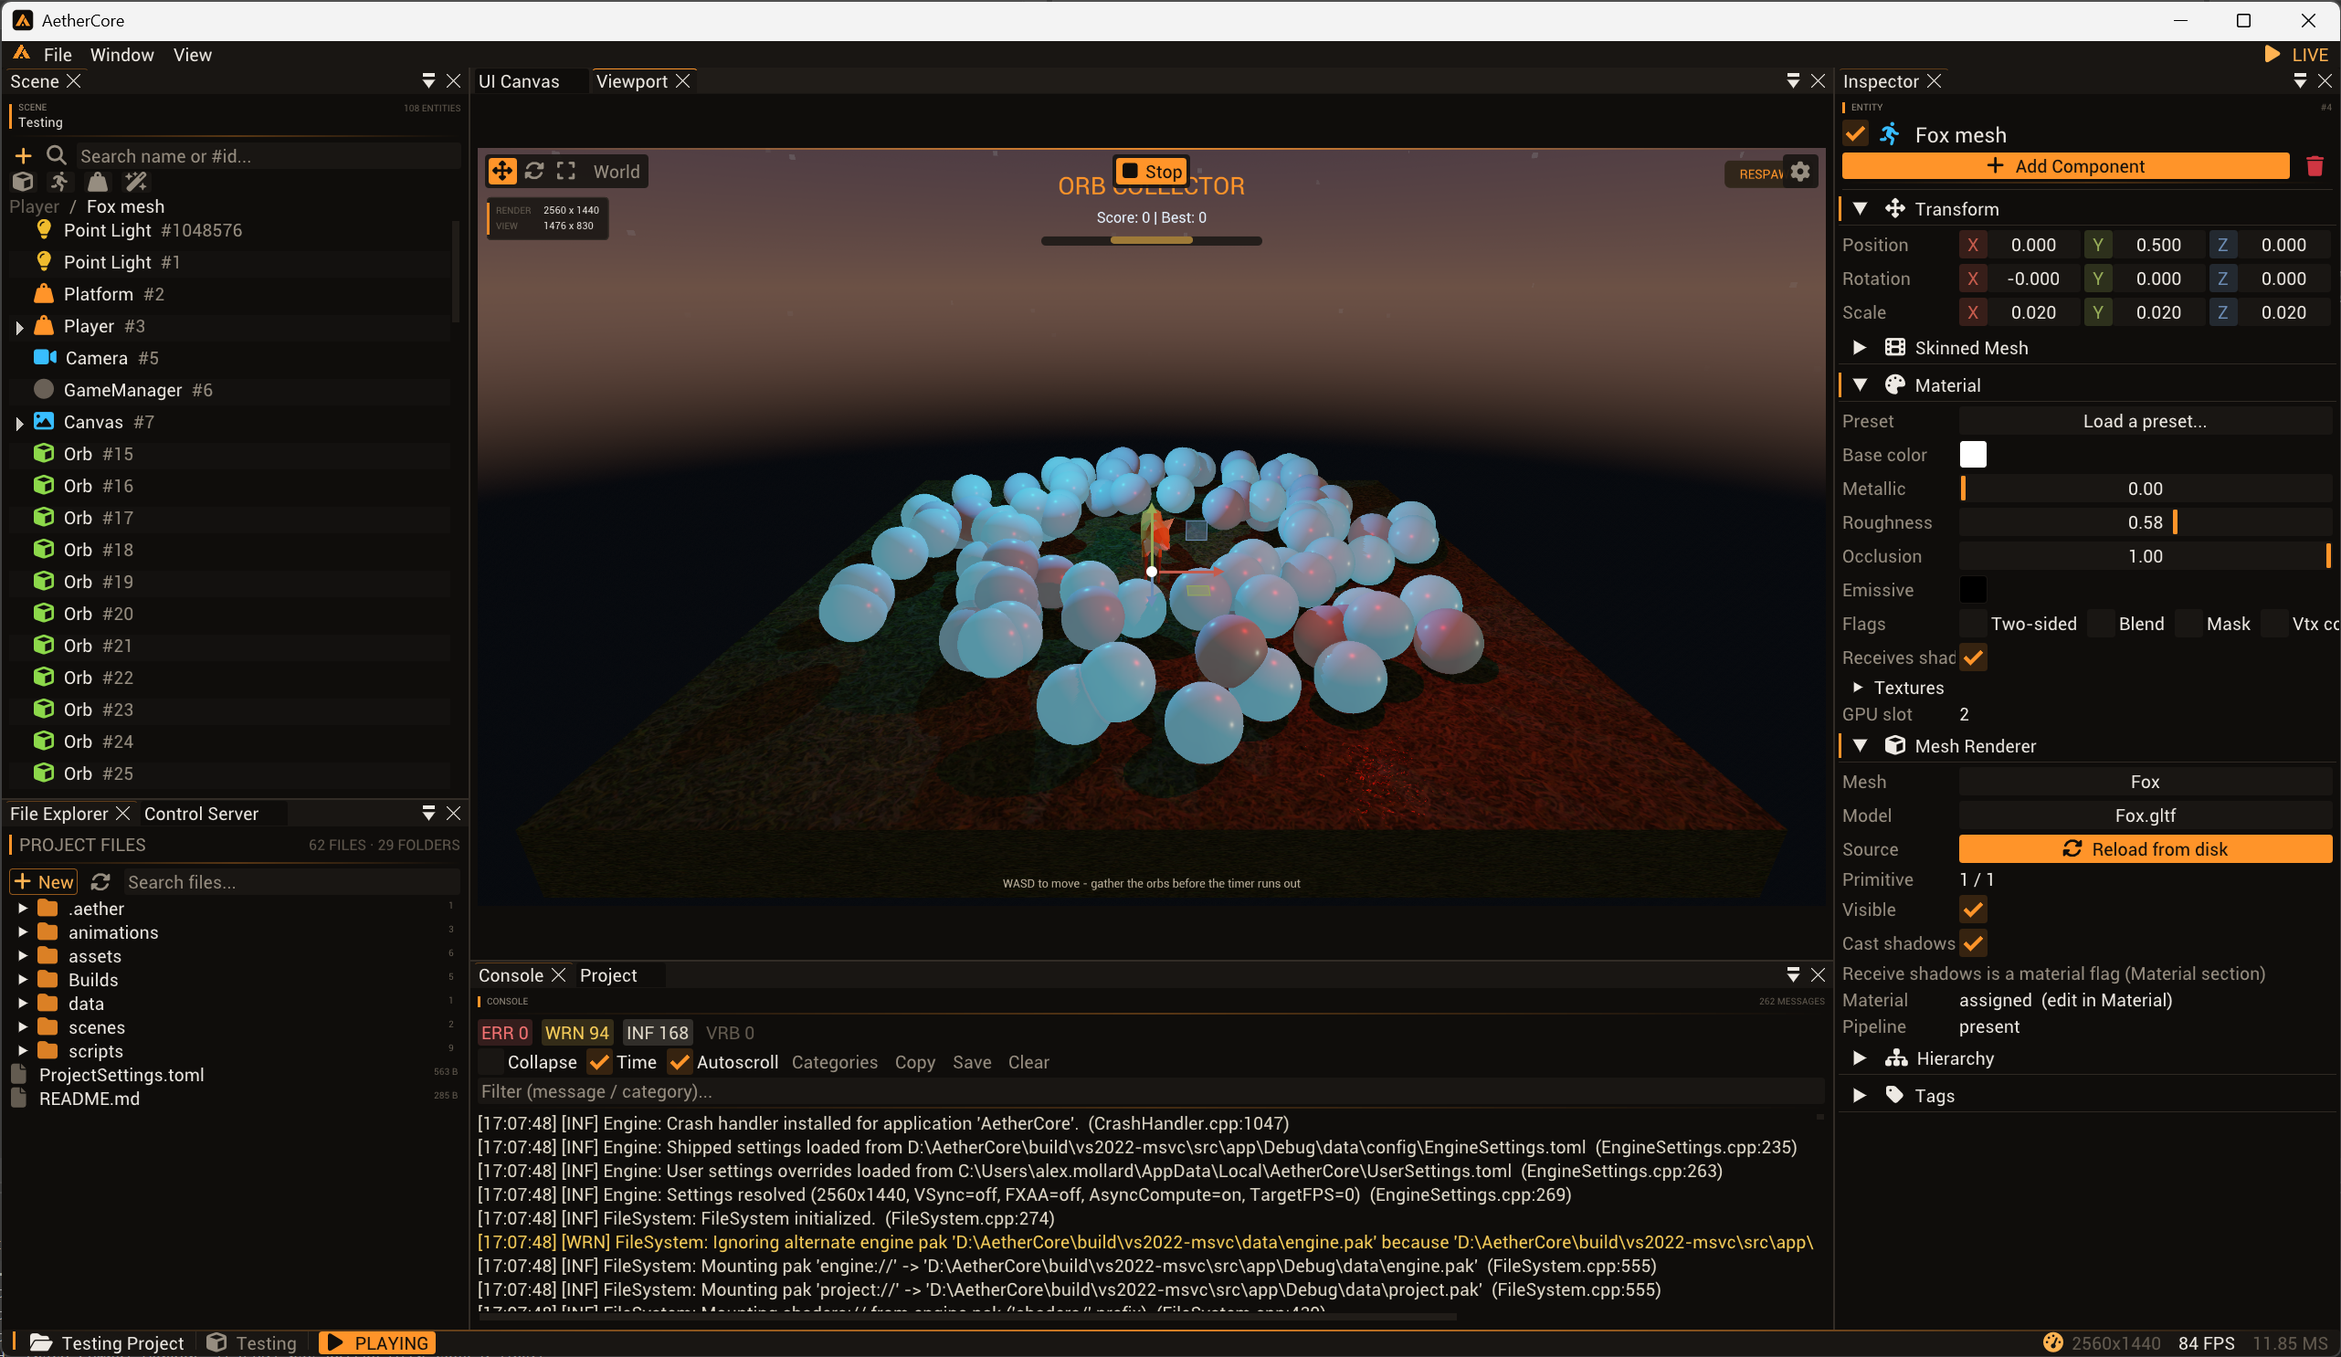
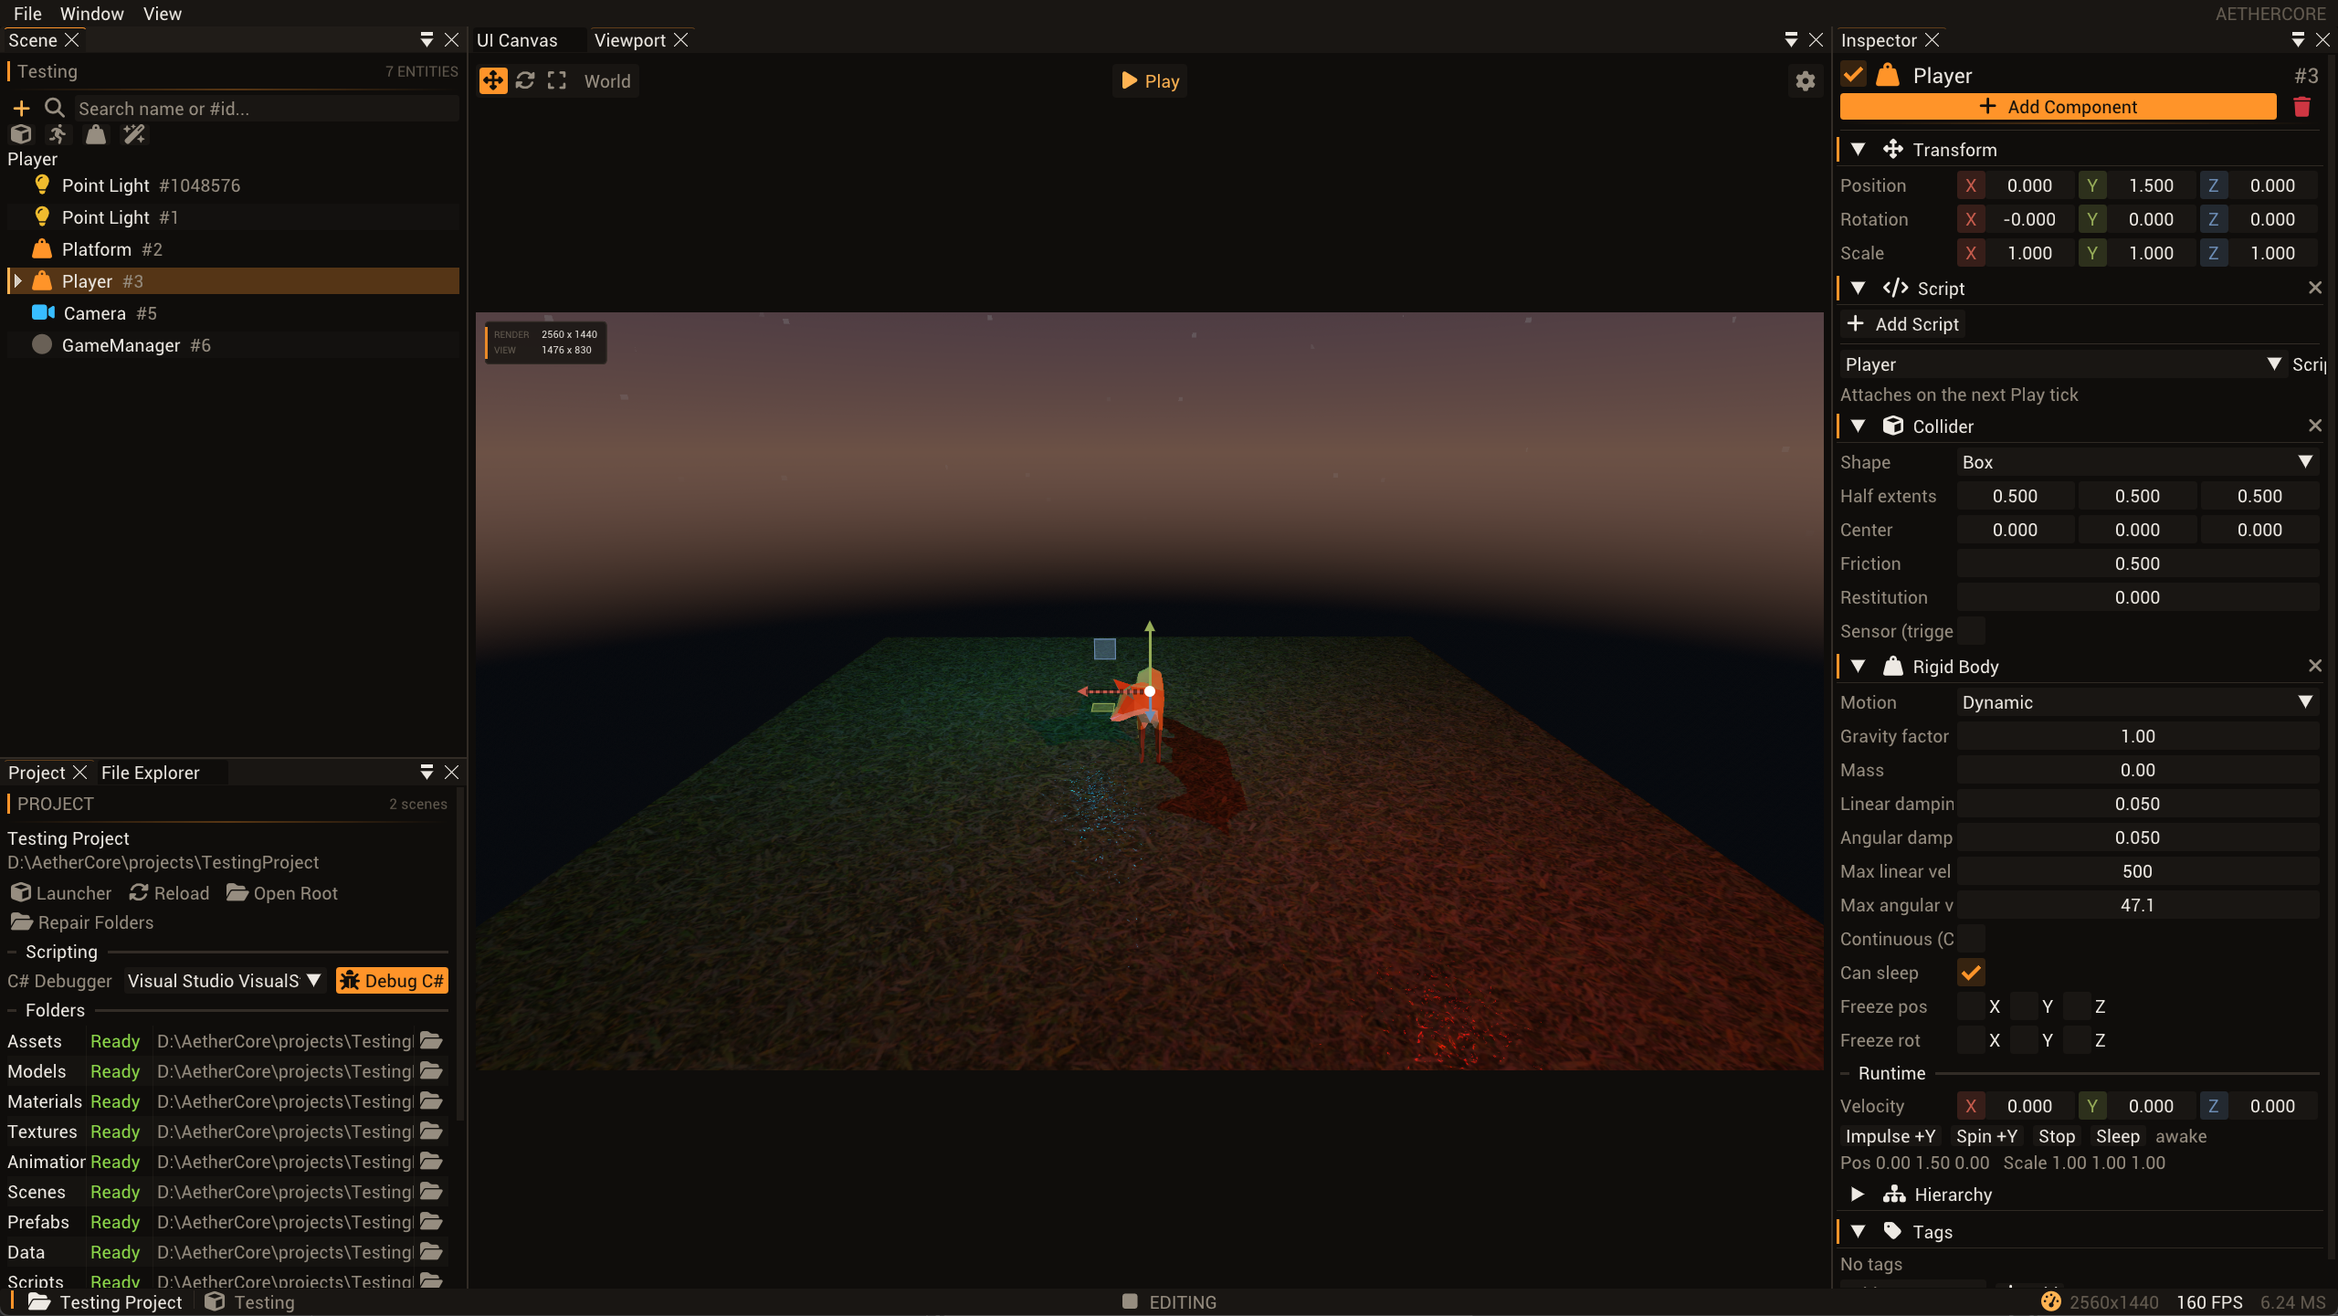
Updated the readme

diff --git a/README.md b/README.md
@@ -5,7 +5,7 @@
 <h1 align="center">AetherCore</h1>
 
 <p align="center">
-  <strong>A modern Vulkan game engine with an editor-first workflow and hot-reloadable C# gameplay.</strong>
+  <strong>A modern Vulkan game engine for 2D and 3D games, with an editor-first workflow and hot-reloadable C# gameplay.</strong>
 </p>
 
 <p align="center">
@@ -16,48 +16,58 @@
 </p>
 
 <p align="center">
+  <a href="#what-is-aethercore">What is it</a> ·
   <a href="#quick-start">Quick start</a> ·
   <a href="#editor-workflow">Editor workflow</a> ·
+  <a href="#2d-workflow">2D workflow</a> ·
+  <a href="#c-scripting">C# scripting</a> ·
   <a href="#engine-mcp">Engine MCP</a> ·
   <a href="#architecture">Architecture</a> ·
-  <a href="#c-scripting">C# scripting</a> ·
   <a href="#asset-and-shipping-pipeline">Asset pipeline</a>
 </p>
 
-<p align="center">
-  <img src="docs/images/editor.png" alt="AetherCore Editor overview" width="1100">
-</p>
-<p align="center"><sub>Editor overview</sub></p>
+<br>
 
-<p align="center">
-  <img src="docs/images/launcher.png" alt="AetherCore Project Launcher" width="1100">
-</p>
-<p align="center"><sub>Project Launcher</sub></p>
+<img src="docs/images/editor.png" align="right" width="560" alt="AetherCore Editor authoring a 3D scene">
 
-> [!NOTE]
-> AetherCore is under active development. The editor, runtime, scripting API, and
-> asset formats are usable today, but backward compatibility is not guaranteed yet.
+### 3D editor
 
-## What is AetherCore?
+Dockable viewport, hierarchy, and inspectors on the full render graph-GPU-driven culling, tiled lighting, shadows, and post-processing.
+<br>
+<br clear="all">
 
-AetherCore is a from-scratch game engine built around three ideas:
+<img src="docs/images/editor-2d.png" align="left" width="560" alt="AetherCore Editor authoring a 2D sprite scene">
 
-- **Keep the renderer explicit.** A GPU abstraction protects engine code from Vulkan details without hiding synchronization, resource lifetime, or render-graph structure.
-- **Make the editor part of the engine.** Project creation, scene authoring, diagnostics, asset inspection, play mode, packaging, and publishing live in one coherent tool.
-- **Keep gameplay iteration fast.** Game code is written against a small C# SDK and can be rebuilt and hot-reloaded without restarting the native engine.
+### 2D editor
 
-The native engine uses C++26 with Clang and C++23 with other compilers. Rendering is Vulkan-based, the scene world is powered by EnTT, physics uses Jolt, and managed gameplay runs in-process on .NET 10 CoreCLR.
+The same shell in orthographic mode: sprite placement, non-destructive sheet slicing, and animation timelines with deterministic playback.
+
+<br clear="all">
+<br>
+
+<img src="docs/images/launcher.png" align="right" width="560" alt="AetherCore Project Launcher">
+
+### Project Launcher
+
+A standalone hub that spawns a dedicated Editor process per project and closes once startup finishes.
+
+<br clear="all">
 
 ## At a glance
 
 | Area | Current capabilities |
 |---|---|
 | **Editor** | Standalone project Launcher, Night Amber ImGui workspace, dockable viewport and inspectors, scene hierarchy, project/file browser, UI canvas tools, theme editor, render-graph and texture inspection |
+| **2D authoring** | Blank 2D projects, orthographic 2D viewport and XY tools, sprite placement and picking, non-destructive sheet slicing, sprite animation timelines, deterministic playback, and 2D asset publishing |
 | **Rendering** | Bindless descriptors, buffer device address, render graph, GPU-driven draw culling, tiled lighting, directional and local shadows, GTAO, FXAA, tonemapping, post-processing, offscreen cameras |
 | **Scene and simulation** | EnTT world, reflection-driven component editing and scene serialization, typed asset identities, Jolt rigid bodies, skeletal animation, blending, root motion, day/night lighting |
 | **Gameplay** | Public C# engine SDK, entity scripts, inspector-exposed fields, native interop boundary, collectible load contexts, F5 rebuild and hot reload, and one-click Visual Studio script debugging |
 | **Assets** | Virtual file system, glTF import, mesh and animation processing, texture transcoding, material presets, one-time `engine.pak` staging, and publish-only project PAKs |
 | **Diagnostics** | Tracy CPU/GPU instrumentation, render-pass timings, resource inspection, validation logging, built-in editor-control MCP scene authoring, and Visual Studio debugger MCP workflow |
+
+> [!NOTE]
+> AetherCore is under active development. The editor, runtime, scripting API, and
+> asset formats are usable today, but backward compatibility is not guaranteed yet.
 
 ## Quick start
 
@@ -77,13 +87,11 @@ cmake --preset default
 cmake --build --preset default
 ```
 
-The build produces both the project hub and full editor. Start with the Launcher:
+This builds both the project hub and the editor. Start with the Launcher:
 
 ```text
 build/src/app/RelWithDebInfo/Launcher.exe
 ```
-
-The Launcher starts a separate `Editor` process for the selected project and closes only after that editor has finished its application startup. From the Editor, **File > Save & Return to Project Launcher…** saves the current named scene, opens the hub, and cleanly exits the editor.
 
 For ClangCL:
 
@@ -92,7 +100,7 @@ cmake --preset vs2022-clang
 cmake --build --preset vs2022-clang
 ```
 
-Open `managed/AetherCore.slnx` in **Visual Studio 2026** or Rider to edit the engine managed code — the `AetherCore` SDK and `AetherCore.Interop` boot assembly (engine code only; a project's gameplay scripts live in `projects/<name>/scripts/` and are edited there). The `net10.0` projects do not load in Visual Studio 2022; this does not prevent VS 2022 from building the native C++ targets through CMake.
+Open `managed/AetherCore.slnx` in **Visual Studio 2026** or Rider to edit the engine managed code (the `AetherCore` SDK and `AetherCore.Interop` boot assembly). A project's gameplay scripts live in `projects/<name>/scripts/` and are edited there. The `net10.0` projects do not load in VS 2022, but VS 2022 can still build the native C++ targets through CMake.
 
 ### Linux
 
@@ -103,7 +111,7 @@ cmake --preset linux-clang
 cmake --build --preset linux-clang
 ```
 
-The Vulkan loader, a working Vulkan driver, Clang, Ninja, and the platform development packages required by GLFW must be available. The .NET 10 SDK is optional; managed scripting is skipped when the SDK is not found.
+Requires the Vulkan loader and driver, Clang, Ninja, and GLFW's platform development packages. The .NET 10 SDK is optional-managed scripting is skipped when it is absent.
 
 ### Useful presets
 
@@ -118,33 +126,75 @@ The Vulkan loader, a working Vulkan driver, Clang, Ninja, and the platform devel
 
 ## Editor workflow
 
-1. Start `Launcher` and create or open a project. It spawns a dedicated `Editor` process, waits for it to become healthy, then closes itself.
+1. Start `Launcher` and create or open a project; it spawns a dedicated `Editor` process and closes itself.
 2. Build a scene with the hierarchy, inspector, viewport, asset browser, and component tools.
-3. Add gameplay under the project's `scripts/` directory using the `AetherCore` managed SDK.
-4. Enter play mode to run the scene. In a development build, press **F5** to rebuild and hot-reload gameplay code.
-5. Use **Debug C#** in the Project panel to open project scripts in Visual Studio with the script debugger pre-attached, or pack and publish a standalone build.
-6. Use **File > Save & Return to Project Launcher…** when switching projects; the editor saves first, starts the standalone hub, and then exits.
+3. Add gameplay under the project's `scripts/` directory using the `AetherCore` SDK.
+4. Enter play mode to run it. In a development build, press **F5** to rebuild and hot-reload gameplay code.
+5. Use **Debug C#** in the Project panel to open scripts in Visual Studio with the debugger attached, or pack and publish a standalone build.
+6. **File > Save & Return to Project Launcher…** saves and hands control back to the hub when switching projects.
 
-Each project is rooted by `ProjectSettings.toml` and owns its assets, scenes, prefabs, scripts, build intermediates, and publishing settings. Engine resources remain separate and are mounted through `engine://`; opened project content is mounted through `project://`.
+Each project is rooted by `ProjectSettings.toml` and owns its assets, scenes, prefabs, scripts, build intermediates, and publish settings. Engine resources mount through `engine://`, project content through `project://`.
+
+## 2D workflow
+
+Choose **Blank 2D** in the Launcher for an orthographic camera, 2D viewport grid and XY tools, and sprite rendering. It is the same project structure and editor shell as 3D, so scenes still share assets, C# gameplay, UI, packaging, and the render graph.
+
+1. Import a texture or sprite sheet, then open the **Sprite Slicer** to create and refine non-destructive regions with grid, trim, and pivot tools.
+2. Drag sprites into the 2D viewport or create **Sprite** and **Animated Sprite** entities from the hierarchy.
+3. Create animation clips in the **Sprite Animation** timeline, edit frame durations and events, then preview playback in Edit or Play mode.
+4. Save, script, and publish normally. Sprite regions keep stable identities across compatible re-slices, and published projects package their sprites, atlases, animations, and scenes.
+
+Physics2D and tilemaps are the next roadmap phases; the current 2D release focuses on production-ready sprite authoring and animation.
+
+## C# scripting
+
+Managed gameplay is split across three assemblies with a deliberate boundary:
+
+| Assembly | Role |
+|---|---|
+| `AetherCore` | Public gameplay SDK: entities, world, input, camera, physics, logging, and components |
+| `AetherCore.Interop` | ABI and CoreCLR boot layer used by the native host; hidden from normal game code |
+| `AetherGame` | Project gameplay scripts loaded into a collectible context for hot reload |
+
+Scripts derive from `EntityScript`. Public fields appear in the editor inspector and serialize with the entity:
+
+```csharp
+using System.Numerics;
+using AetherCore;
+
+namespace AetherGame;
+
+public sealed class Spinner : EntityScript
+{
+    public float DegreesPerSecond = 90.0f;
+
+    public override void OnUpdate(float deltaTime)
+    {
+        Vector3 euler = Self.EulerDegrees;
+        euler.Y = (euler.Y + DegreesPerSecond * deltaTime) % 360.0f;
+        Self.EulerDegrees = euler;
+    }
+}
+```
+
+The CMake build runs `dotnet build` when the .NET SDK is present and deploys the managed assemblies next to the native executable. NuGet dependencies declared by the game project resolve into the script load context.
 
 ## Engine MCP
 
-AetherCore includes its own MCP server, so a coding agent can run the test
-gauntlet, inspect the Launcher hub, or work with a live editor: inspect and edit
-scenes, manage editor panels, query the render graph, capture textures and
-screenshots, and enter play mode. The live-control endpoint listens only on
-`127.0.0.1`.
+AetherCore ships its own MCP server, so a coding agent can run the test gauntlet,
+inspect the Launcher hub, or drive a live editor-editing scenes, managing panels,
+querying the render graph, capturing textures and screenshots, and entering play
+mode. The live-control endpoint listens only on `127.0.0.1`.
 
 ```powershell
 cmake --build --preset default --target Editor aether-ctl
 ./scripts/Install-Mcp.ps1 -Targets codex
 ```
 
-The Launcher owns the control port while its hub is open (`8787` by default), offering
-hub status, project listing, and screenshots. When it launches an Editor, it releases
-that same port for the Editor's full control endpoint, so MCP tools follow the handoff
-without reconfiguration. For a directly started Editor, set `AETHER_CONTROL_PORT=8787`
-or enable it from the **Control Server** panel. See the [MCP setup guide](docs/mcp-setup.md#aethercore-mcp) for the short setup path and the [full engine MCP reference](tools/mcp/README.md) for all tools and options.
+The Launcher owns the control port while its hub is open (`8787` by default) and hands
+it off to the Editor it launches, so MCP tools follow the handoff without reconfiguration.
+For a directly started Editor, set `AETHER_CONTROL_PORT=8787` or enable the **Control Server**
+panel. See the [MCP setup guide](docs/mcp-setup.md#aethercore-mcp) and the [full engine MCP reference](tools/mcp/README.md).
 
 ## Architecture
 
@@ -187,39 +237,6 @@ The frame pipeline follows an extract-and-consume model: the producer thread gat
 
 Subsystems are wired through `ServiceContainer`. Engine startup and shutdown order is dependency-sensitive, and GPU-backed services are destroyed before the GPU device.
 
-## C# scripting
-
-Managed gameplay is split across three assemblies with a deliberate boundary:
-
-| Assembly | Role |
-|---|---|
-| `AetherCore` | Public gameplay SDK: entities, world, input, camera, physics, logging, and components |
-| `AetherCore.Interop` | ABI and CoreCLR boot layer used by the native host; hidden from normal game code |
-| `AetherGame` | Project gameplay scripts loaded into a collectible context for hot reload |
-
-Scripts derive from `EntityScript`. Public fields appear in the editor inspector and serialize with the entity:
-
-```csharp
-using System.Numerics;
-using AetherCore;
-
-namespace AetherGame;
-
-public sealed class Spinner : EntityScript
-{
-    public float DegreesPerSecond = 90.0f;
-
-    public override void OnUpdate(float deltaTime)
-    {
-        Vector3 euler = Self.EulerDegrees;
-        euler.Y = (euler.Y + DegreesPerSecond * deltaTime) % 360.0f;
-        Self.EulerDegrees = euler;
-    }
-}
-```
-
-The CMake build invokes `dotnet build` when the .NET SDK is available and deploys the managed assemblies next to the native executable. NuGet dependencies declared by the game project are resolved into the script load context.
-
 ## Asset and shipping pipeline
 
 AetherCore keeps engine and project payloads separate:
@@ -230,7 +247,7 @@ AetherCore keeps engine and project payloads separate:
 | `project://` | Project directory during development; `data/project.pak` when publishing | The opened project's scenes, prefabs, scripts, models, materials, textures, and derived assets |
 | `shaders://` | Overlay over engine and project shader intermediates | Engine shaders plus project overrides during editor development |
 
-`AssetPacker` processes project content before packing. Depending on source type, that includes texture transcoding, mesh/skeleton/animation extraction, material generation, shader optimization, and zstd compression. `engine.pak` is built once for the shared Editor/Launcher bundle; `project.pak` is created for published games rather than every editor build.
+`AssetPacker` processes project content before packing-texture transcoding, mesh/skeleton/animation extraction, material generation, shader optimization, and zstd compression, depending on source type. `engine.pak` is built once for the shared Editor/Launcher bundle; `project.pak` is created only when publishing.
 
 ```powershell
 AssetPacker --project --import-materials projects/TestingProject build/data/project.pak
@@ -250,7 +267,7 @@ normal = "project://assets/textures/normal.png"
 metallicRoughness = "project://assets/textures/metal-roughness.png"
 ```
 
-Asset references are catalogued through stable `AssetId` values while existing texture and material registries remain the owning backends. The current design and its reload roadmap are documented in [Asset Database](docs/asset-database.md).
+Asset references are catalogued through stable `AssetId` values, while texture and material registries remain the owning backends. See [Asset Database](docs/asset-database.md) for the design and reload roadmap.
 
 ## Build targets
 
